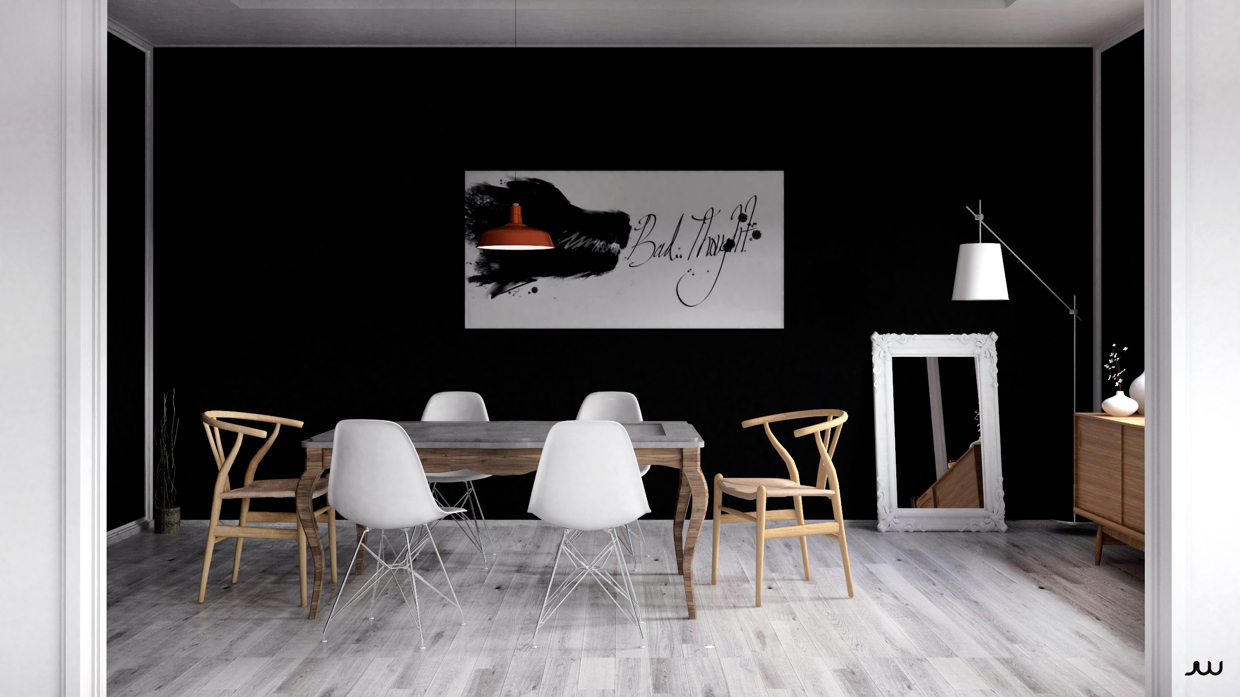
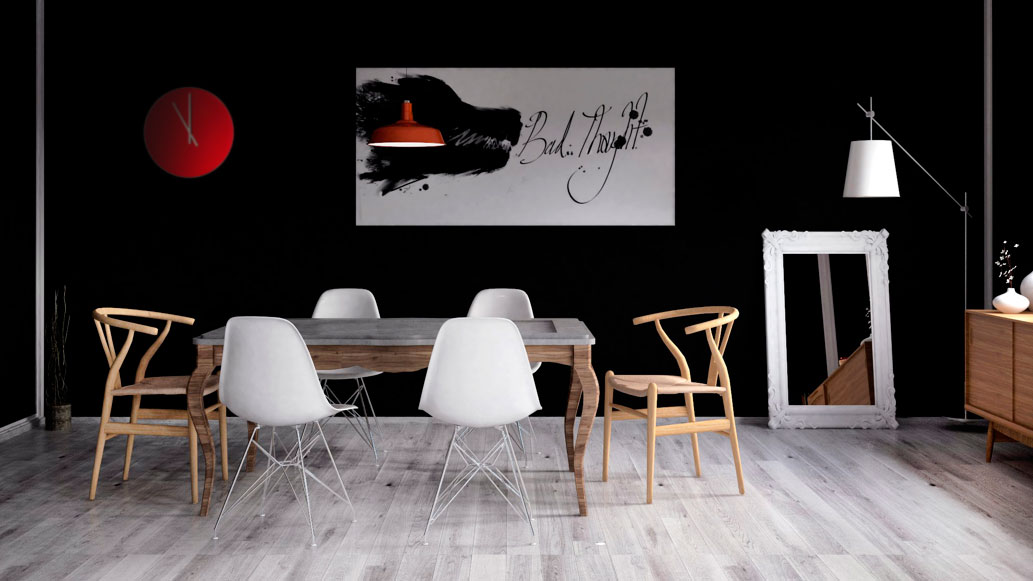
Hero image + category fontsizes

diff --git a/code/src/components/hero/hero.css b/code/src/components/hero/hero.css
@@ -1,16 +1,18 @@
 .herocontainer {
   display: flex;
   width: 68.5%;
-  height: 300px;
+  height: 400px;
   margin-left: auto;
   margin-right: auto;
-  background: blue;
   box-sizing: border-box;
   justify-content: center;
   flex-wrap: wrap;
   flex-direction: column;
   align-items: center;
   margin: 0 1% 1% 1%;
+  background-size: cover;
+  background-position: middle;
+  background-repeat: no-repeat;
 }
 
 .herobutton {
@@ -20,10 +22,16 @@
   margin-left: auto;
   margin-right: auto;
   font-family: Raisonne;
-  font-size: 20px;
+  font-size: 2vw;
   border-radius: 0;
   background: white;
   padding: 1vw;
   border: 2px solid black;
-  top: 10%;
+}
+
+@media (max-width: 600px){
+  .herobutton  {
+    font-size: 1.2em;
+    width: 40%;
+  }
 }

diff --git a/code/src/components/hero/hero.js b/code/src/components/hero/hero.js
@@ -4,8 +4,8 @@ import "./hero.css"
 export default class Hero extends React.Component {
   render() {
     return (
-      <div className="herocontainer">
-        <div className="hero" />
+      <div className="herocontainer" style={{ backgroundImage: "url(./images/black-wall-dining-room.jpg)" }}>
+        {/* <div className="hero" /> */}
         <button className="herobutton">SHOP ALL</button>
       </div>
     )

diff --git a/code/src/components/categorygrid/categorygrid.css b/code/src/components/categorygrid/categorygrid.css
@@ -47,10 +47,13 @@
   background: white;
   padding: 1vw;
   border: 2px solid black;
+  font-size: 2vw;
 }
 
 @media (max-width: 600px){
   .headingCategory  {
     font-size: 1.2em;
+    width: 50%;
+    top: 65%;
   }
 }
